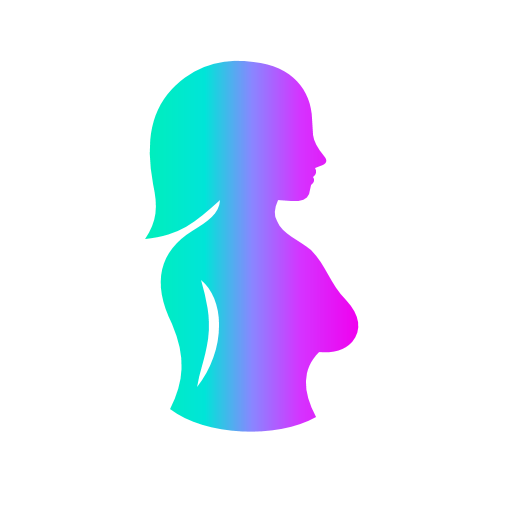
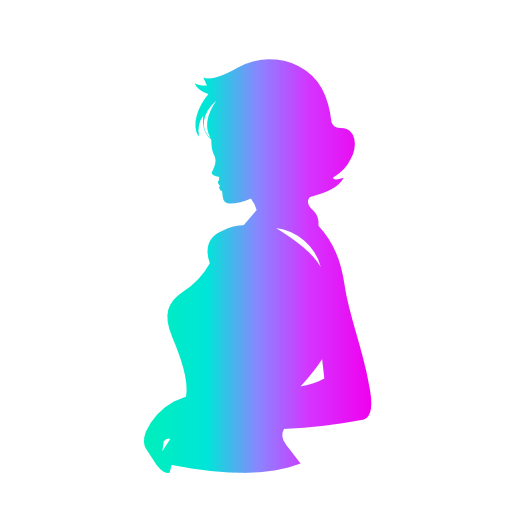
Redraw Aetherform's silhouette in a turned waist-up pose

Changed region(s): [[0.2812, 0.0938, 0.75, 0.9375]]

diff --git a/tools/package_feed.py b/tools/package_feed.py
@@ -17,7 +17,7 @@ url = f"{repo}/releases/download/{tag}/Aetherform.zip"
 manifest.update(AssemblyVersion=tag.removeprefix("v"),
                 IconUrl=f"https://raw.githubusercontent.com/kaldigo/FFXIVAetherform/{tag}/assets/icon.png",
                 DownloadLinkInstall=url, DownloadLinkUpdate=url, DownloadLinkTesting=url,
-                Changelog="Each garment now has a Proteus-editable Fit group, body retarget record and persistent per-shape model. Re-equipping preserves manual edits.")
+                Changelog="New left-facing waist-up silhouette for the installer and window header. Includes persistent, Proteus-editable garment fits.")
 package = out / "Aetherform.zip"
 with ZipFile(package, "w", ZIP_DEFLATED) as archive:
     add_solver(archive, root, build)
